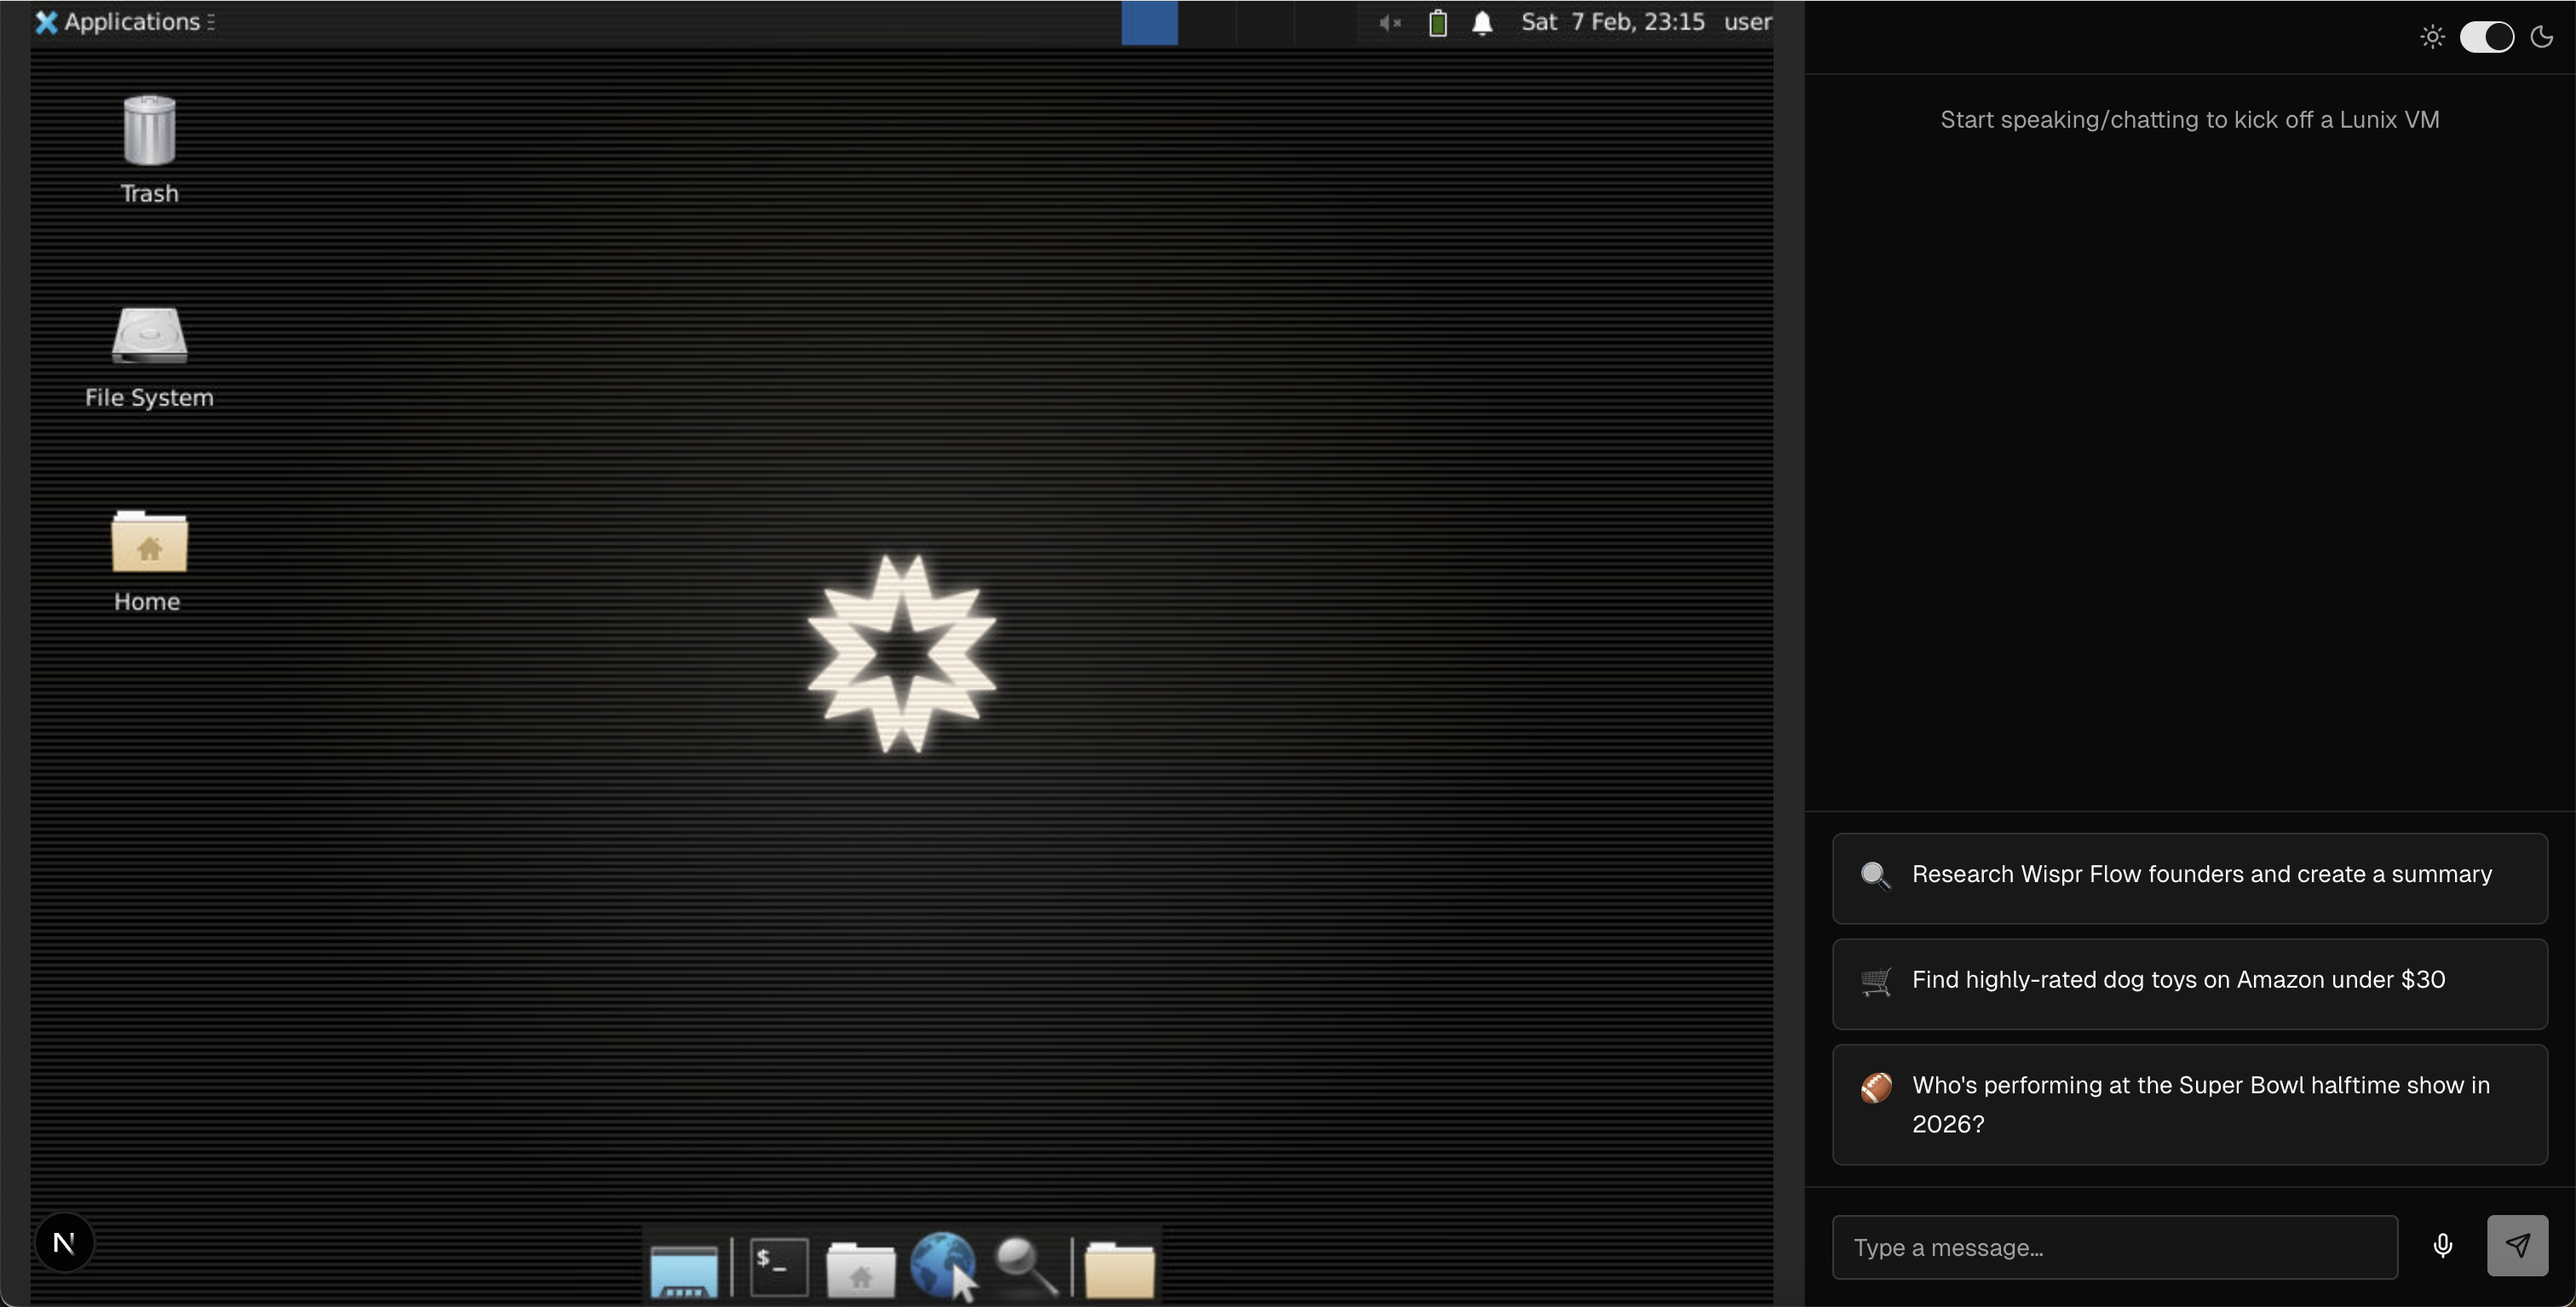
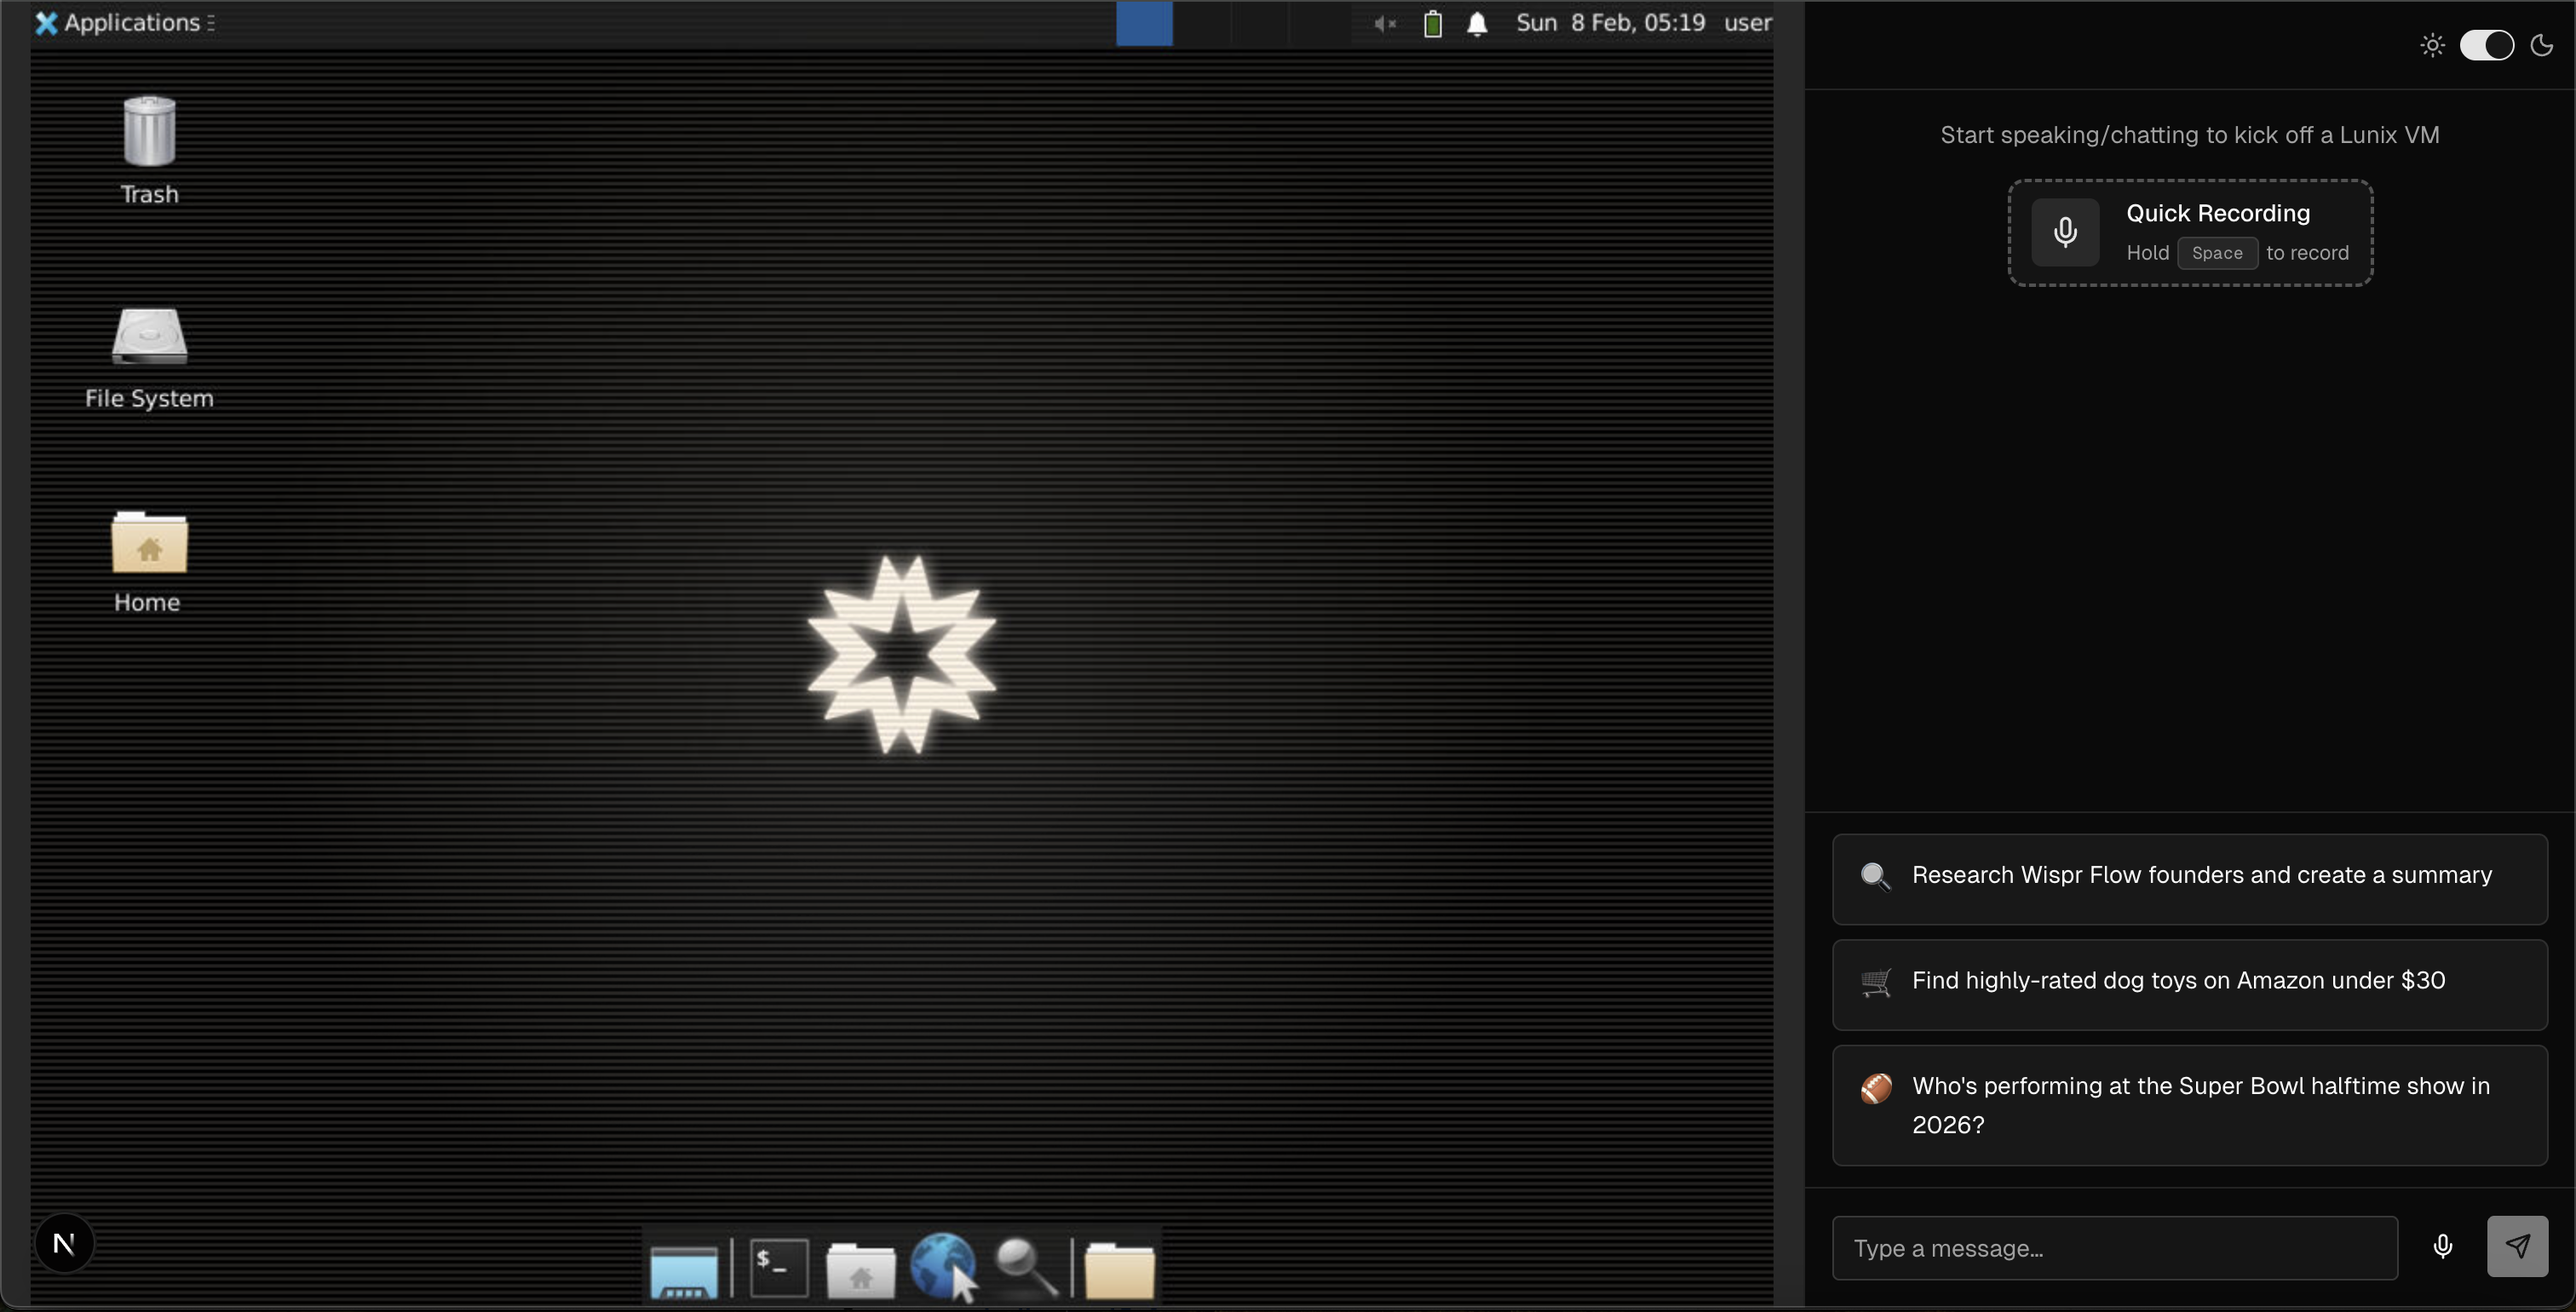
Add Keyboard Handler

diff --git a/src/components/ChatPanel.tsx b/src/components/ChatPanel.tsx
@@ -14,12 +14,15 @@ import {
 import { Send, Mic, Square } from "lucide-react";
 import type { Message as MessageType } from "@/hooks/useChat";
 import { useVoiceRecording } from "@/hooks/useVoiceRecording";
+import { useKeyboardRecording } from "@/hooks/useKeyboardRecording";
 
 interface ChatPanelProps {
   messages: MessageType[];
   isLoading: boolean;
+  isStreaming: boolean;
   error: string | null;
   onSendMessage: (content: string) => Promise<void>;
+  onCancelStream: () => void;
 }
 
 interface SuggestionChip {
@@ -45,8 +48,10 @@ const SUGGESTIONS: SuggestionChip[] = [
 export function ChatPanel({
   messages,
   isLoading,
+  isStreaming,
   error,
   onSendMessage,
+  onCancelStream,
 }: ChatPanelProps) {
   const [input, setInput] = useState("");
   const scrollRef = useRef<HTMLDivElement>(null);
@@ -60,6 +65,18 @@ export function ChatPanel({
     stopRecording,
   } = useVoiceRecording();
 
+  useKeyboardRecording({
+    onStart: startRecording,
+    onStop: async () => {
+      const finalTranscript = await stopRecording();
+      if (finalTranscript) {
+        await onSendMessage(finalTranscript);
+      }
+    },
+    isRecording,
+    disabled: isLoading || isStreaming,
+  });
+
   useEffect(() => {
     if (scrollRef.current) {
       const prefersReducedMotion = window.matchMedia(
@@ -72,7 +89,7 @@ export function ChatPanel({
   }, [messages]);
 
   const handleSend = async () => {
-    if (!input.trim() || isLoading) return;
+    if (!input.trim() || isLoading || isStreaming) return;
 
     const content = input.trim();
     setInput("");
@@ -125,8 +142,24 @@ export function ChatPanel({
           aria-relevant="additions"
         >
           {messages.length === 0 ? (
-            <div className="flex h-full items-center justify-center text-center text-sm text-muted-foreground">
-              Start speaking/chatting to kick off a Lunix VM
+            <div className="flex h-full flex-col items-center justify-center gap-4">
+              <div className="text-center">
+                <p className="text-sm text-muted-foreground">
+                  Start speaking/chatting to kick off a Lunix VM
+                </p>
+              </div>
+
+              <div className="flex items-center gap-4 px-3 py-2 rounded-xl border-2 border-dashed border-primary/30 bg-primary/5">
+                <div className="flex items-center justify-center w-10 h-10 rounded-lg bg-primary/10">
+                  <Mic className="h-5 w-5 text-primary" />
+                </div>
+                <div className="flex flex-col text-left gap-1">
+                  <p className="font-medium text-sm">Quick Recording</p>
+                  <p className="text-xs text-muted-foreground flex items-center gap-1">
+                    Hold <kbd className="px-2 py-0.5 bg-muted border rounded text-[10px] font-mono">Space</kbd> to record
+                  </p>
+                </div>
+              </div>
             </div>
           ) : (
             <>
@@ -151,7 +184,7 @@ export function ChatPanel({
               <button
                 key={chip.query}
                 onClick={() => handleChipClick(chip.query)}
-                disabled={isLoading}
+                disabled={isLoading || isStreaming}
                 className="flex items-start rounded-lg border border-border bg-muted/50 px-4 py-3 text-sm text-left hover:bg-muted hover:scale-[1.02] transition-all whitespace-normal"
               >
                 <span className="mr-3 text-lg flex-shrink-0">{chip.icon}</span>
@@ -172,7 +205,7 @@ export function ChatPanel({
               onKeyDown={handleKeyDown}
               placeholder={isRecording ? "Listening…" : "Type a message…"}
               aria-label="Chat message"
-              disabled={isLoading || isRecording}
+              disabled={isLoading || isRecording || isStreaming}
               className="min-h-[36px] max-h-[144px] resize-none font-sans"
               rows={1}
             />
@@ -182,7 +215,7 @@ export function ChatPanel({
                   variant={isRecording ? "default" : "ghost"}
                   size="icon"
                   onClick={toggleVoiceMode}
-                  disabled={isLoading}
+                  disabled={isLoading || isStreaming}
                   className={isRecording ? "bg-red-500 hover:bg-red-600 text-white h-[36px] w-[36px] shrink-0" : "h-[36px] w-[36px] shrink-0"}
                   aria-label={isRecording ? "Stop recording" : "Start voice input"}
                 >
@@ -194,23 +227,27 @@ export function ChatPanel({
                 </Button>
               </TooltipTrigger>
               <TooltipContent>
-                <p>{isRecording ? "Stop recording" : "Start recording"}</p>
+                <p>{isRecording ? "Stop recording" : "Start recording (or hold Space)"}</p>
               </TooltipContent>
             </Tooltip>
             <Tooltip>
               <TooltipTrigger asChild>
                 <Button
-                  onClick={handleSend}
-                  disabled={!input.trim() || isLoading}
+                  onClick={isStreaming ? onCancelStream : handleSend}
+                  disabled={isStreaming ? false : (!input.trim() || isLoading)}
                   size="icon"
-                  className="h-[36px] w-[36px] shrink-0"
-                  aria-label="Send message"
+                  className={isStreaming ? "bg-red-500 hover:bg-red-600 text-white h-[36px] w-[36px] shrink-0" : "h-[36px] w-[36px] shrink-0"}
+                  aria-label={isStreaming ? "Stop agent execution" : "Send message"}
                 >
-                  <Send className="h-4 w-4" />
+                  {isStreaming ? (
+                    <Square className="h-4 w-4" />
+                  ) : (
+                    <Send className="h-4 w-4" />
+                  )}
                 </Button>
               </TooltipTrigger>
               <TooltipContent>
-                <p>Send message (⏎)</p>
+                <p>{isStreaming ? "Stop agent execution" : "Send message (⏎)"}</p>
               </TooltipContent>
             </Tooltip>
           </div>

diff --git a/src/app/api/deepgram/stream/route.ts b/src/app/api/deepgram/stream/route.ts
@@ -27,8 +27,29 @@ export function UPGRADE(client: WebSocket) {
     smart_format: true,
   });
 
+  let dgIsOpen = false;
+  const audioBuffer: Buffer[] = [];
+  const MAX_BUFFER_SIZE = 20;
+
+  const openTimeout = setTimeout(() => {
+    if (!dgIsOpen) {
+      console.error("Deepgram connection timeout");
+      client.close(1008, "Transcription service timeout");
+    }
+  }, 5000);
+
   dgConnection.on(LiveTranscriptionEvents.Open, () => {
+    dgIsOpen = true;
+    clearTimeout(openTimeout);
     console.log("Deepgram connection opened");
+
+    while (audioBuffer.length > 0) {
+      const chunk = audioBuffer.shift();
+      if (chunk) {
+        // @ts-expect-error - Buffer is compatible with Deepgram's SocketDataLike at runtime
+        dgConnection.send(chunk);
+      }
+    }
   });
 
   dgConnection.on(LiveTranscriptionEvents.Transcript, (data: LiveTranscriptionEvent) => {
@@ -49,19 +70,28 @@ export function UPGRADE(client: WebSocket) {
     client.close();
   });
 
-  client.on("message", (data: any) => {
-    if (dgConnection) {
+  client.on("message", (data: Buffer) => {
+    if (dgIsOpen) {
+      // @ts-expect-error - Buffer is compatible with Deepgram's SocketDataLike at runtime
       dgConnection.send(data);
+    } else {
+      if (audioBuffer.length < MAX_BUFFER_SIZE) {
+        audioBuffer.push(data);
+      } else {
+        console.warn("Audio buffer full, dropping chunk");
+      }
     }
   });
 
   client.on("close", () => {
     console.log("Client disconnected");
+    clearTimeout(openTimeout);
     dgConnection.finish();
   });
 
   client.on("error", (error: Error) => {
     console.error("WebSocket client error:", error);
+    clearTimeout(openTimeout);
     dgConnection.finish();
   });
 }

diff --git a/src/hooks/useKeyboardRecording.ts b/src/hooks/useKeyboardRecording.ts
@@ -1,0 +1,50 @@
+import { useEffect, useRef } from "react";
+
+interface UseKeyboardRecordingProps {
+  onStart: () => void;
+  onStop: () => Promise<void>;
+  isRecording: boolean;
+  disabled: boolean;
+}
+
+export function useKeyboardRecording({
+  onStart,
+  onStop,
+  isRecording,
+  disabled,
+}: UseKeyboardRecordingProps) {
+  const isKeyDownRef = useRef(false);
+
+  useEffect(() => {
+
+    const handleKeyDown = (e: KeyboardEvent) => {
+      if (
+        e.code === "Space" &&
+        !isKeyDownRef.current &&
+        !disabled &&
+        !isRecording &&
+        document.activeElement?.tagName !== "TEXTAREA"
+      ) {
+        e.preventDefault();
+        isKeyDownRef.current = true;
+        onStart();
+      }
+    };
+
+    const handleKeyUp = (e: KeyboardEvent) => {
+      if (e.code === "Space" && isKeyDownRef.current && isRecording) {
+        e.preventDefault();
+        isKeyDownRef.current = false;
+        onStop();
+      }
+    };
+
+    window.addEventListener("keydown", handleKeyDown);
+    window.addEventListener("keyup", handleKeyUp);
+
+    return () => {
+      window.removeEventListener("keydown", handleKeyDown);
+      window.removeEventListener("keyup", handleKeyUp);
+    };
+  }, [disabled, isRecording, onStart, onStop]);
+}

diff --git a/src/hooks/useChat.ts b/src/hooks/useChat.ts
@@ -99,14 +99,6 @@ export function useChat({ sandboxId, onSandboxUpdate }: UseChatOptions) {
                                     onSandboxUpdate(vncUrl, sandboxId);
                                 }
                                 break;
-                            case SSEEvent.TEXT:
-                                if (parsedMessage?.content && typeof parsedMessage.content === "string") {
-                                    setMessages((prev) => [...prev, {
-                                        role: "assistant",
-                                        content: parsedMessage.content as string,
-                                    }]);
-                                }
-                                break;
                             case SSEEvent.REASONING:
                                 if (parsedMessage?.content && typeof parsedMessage.content === "string") {
                                     setMessages((prev) => [...prev, {

diff --git a/src/lib/utils.ts b/src/lib/utils.ts
@@ -8,16 +8,10 @@ export function cn(...inputs: ClassValue[]) {
 
 export function extractErrorMessage(error: unknown): string {
 	if (error && typeof error === 'object' && 'status' in error && error.status === 429) {
-		const retryAfter = error && typeof error === 'object' && 'headers' in error
-			? (error.headers as Record<string, string>)?.['retry-after']
-			: undefined;
-
-		if (retryAfter) {
-			return `Rate limit exceeded. You can retry in ${retryAfter} seconds.`;
-		} else {
-			return "Rate limit exceeded. Please try again later.";
-		}
-	} else if (error instanceof Error) {
+		return "Rate limit exceeded. Please try again later.";
+	}
+	
+	if (error instanceof Error) {
 		return error.message;
 	}
 

diff --git a/src/app/page.tsx b/src/app/page.tsx
@@ -12,7 +12,7 @@ export default function Home() {
     setSandboxId(newSandboxId);
   }, []);
 
-  const { messages, isLoading, error: chatError, sendMessage } = useChat({
+  const { messages, isLoading, isStreaming, error: chatError, sendMessage, cancelStream } = useChat({
     sandboxId,
     onSandboxUpdate: handleSandboxUpdate,
   });
@@ -37,8 +37,10 @@ export default function Home() {
       <ChatPanel
         messages={messages}
         isLoading={isLoading}
+        isStreaming={isStreaming}
         error={chatError}
         onSendMessage={sendMessage}
+        onCancelStream={cancelStream}
       />
     </div>
   );

diff --git a/src/lib/llm/types.ts b/src/lib/llm/types.ts
@@ -11,7 +11,6 @@ export interface ChatOptions {
 
 export enum SSEEvent {
   INIT = 'init',
-  TEXT = 'text',
   ERROR = 'error',
   DONE = 'done',
   ACTION = 'action',
